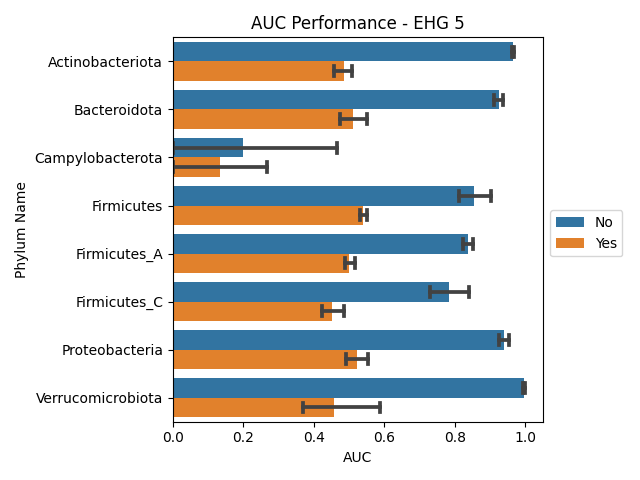
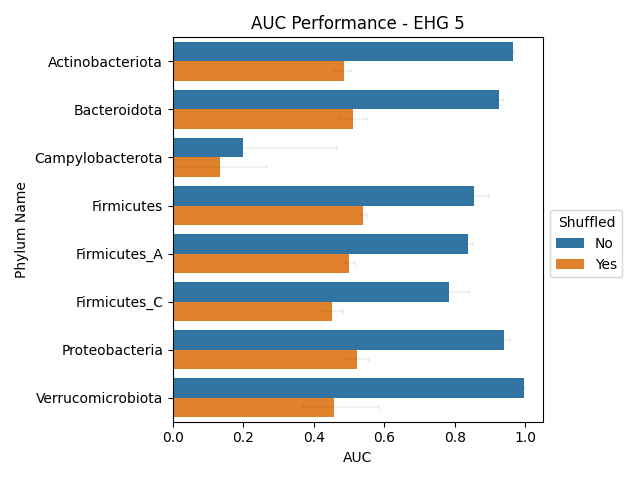
making figures pretty

diff --git a/scripts/performance_plot.py b/scripts/performance_plot.py
@@ -15,9 +15,9 @@ for f in files:
     typ = typ.partition('.')[0]
     df = pd.read_csv(f, index_col=0)
     df = df.sort_values(by='Phylum Name')
-    sns.barplot(data=df, x='AUC', y='Phylum Name', hue='Shuffled', capsize=0.2, orient="h")
+    sns.barplot(data=df, x='AUC', y='Phylum Name', hue='Shuffled', errwidth=0.1, capsize=0.1, orient="h")
     plt.title('AUC Performance - '+data+' '+typ)
-    plt.legend(bbox_to_anchor=(1.02, 0.55), loc='upper left', borderaxespad=0)
+    plt.legend(bbox_to_anchor=(1.02, 0.55), loc='upper left', borderaxespad=0, title='Shuffled')
     plt.tight_layout()
     plt.savefig(f.partition('.csv')[0].replace('files', 'figures')+'.png')
     plt.close()
